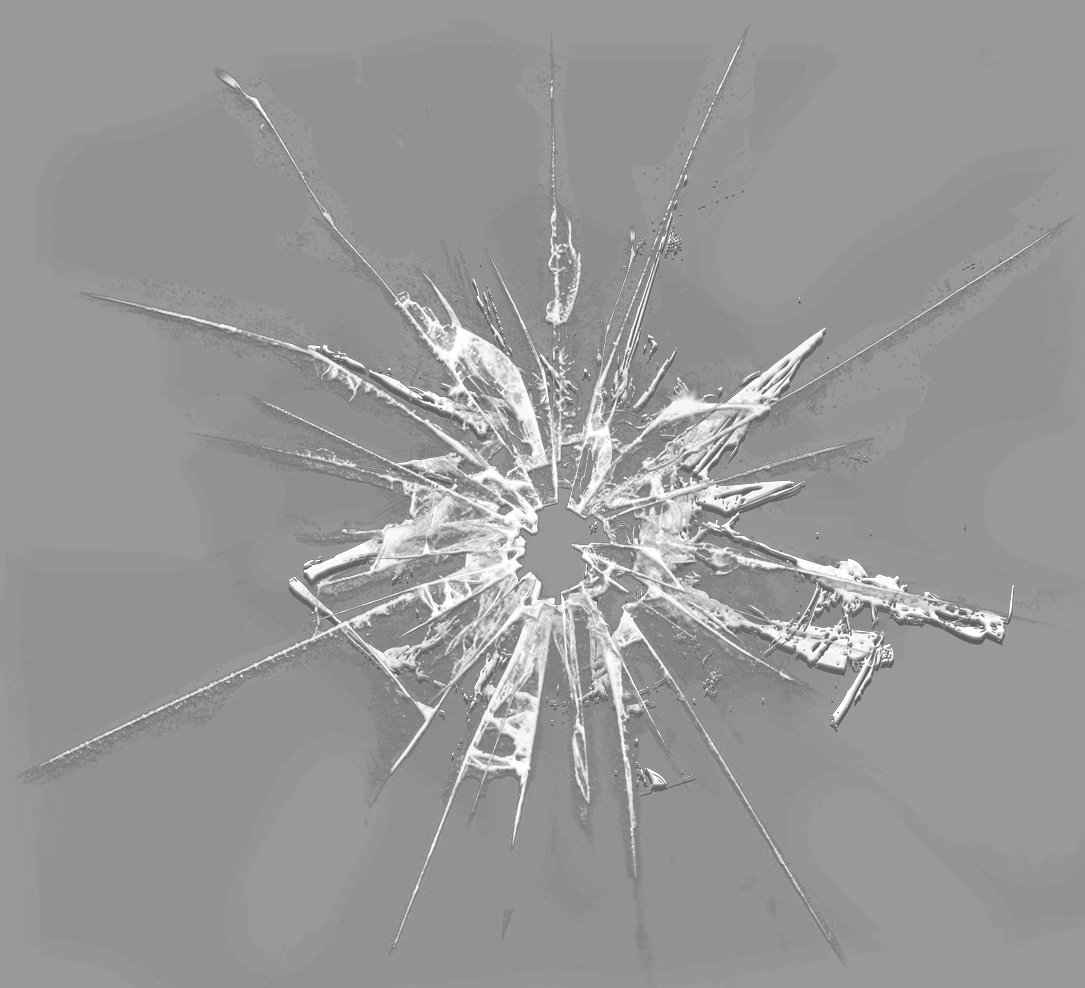
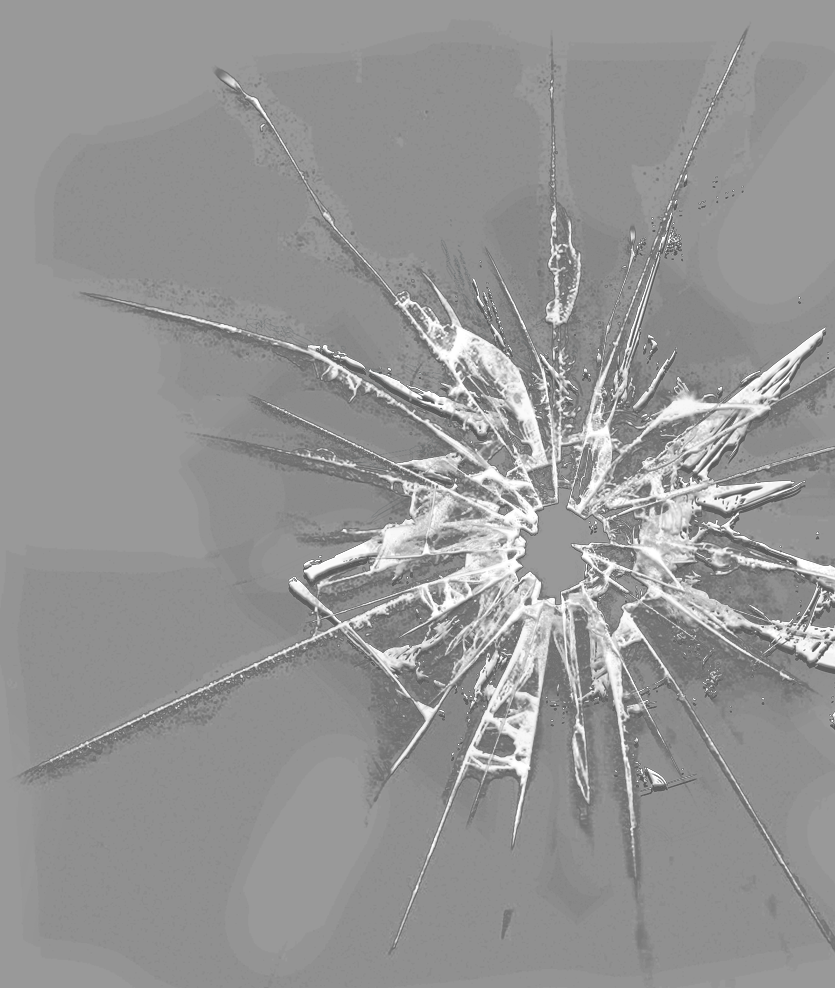
glass modifi

diff --git a/missile.css b/missile.css
@@ -6,6 +6,7 @@
 body{
     overflow: hidden;
     background-color: black;
+    position: relative;
 }
 
 .missileImg {
@@ -47,7 +48,7 @@ body{
     background-size: cover;
     height: 55vh;
     margin-top: 220px;
-    margin-left: 10px;
+    margin-left: 20px;
     position: relative;
 }
 
@@ -61,16 +62,9 @@ body{
 
 #glassBreak{
     position: absolute;
-    left: 30px;
+    left: 0px;
     top: 80px;
-    width: 120%;
-}
-
-#glassBreak2{
-    position: absolute;
-    width: 50%;
-    top: 0;
-    left: 10px;
+    width: 100%;
 }
 
 .d-none {
